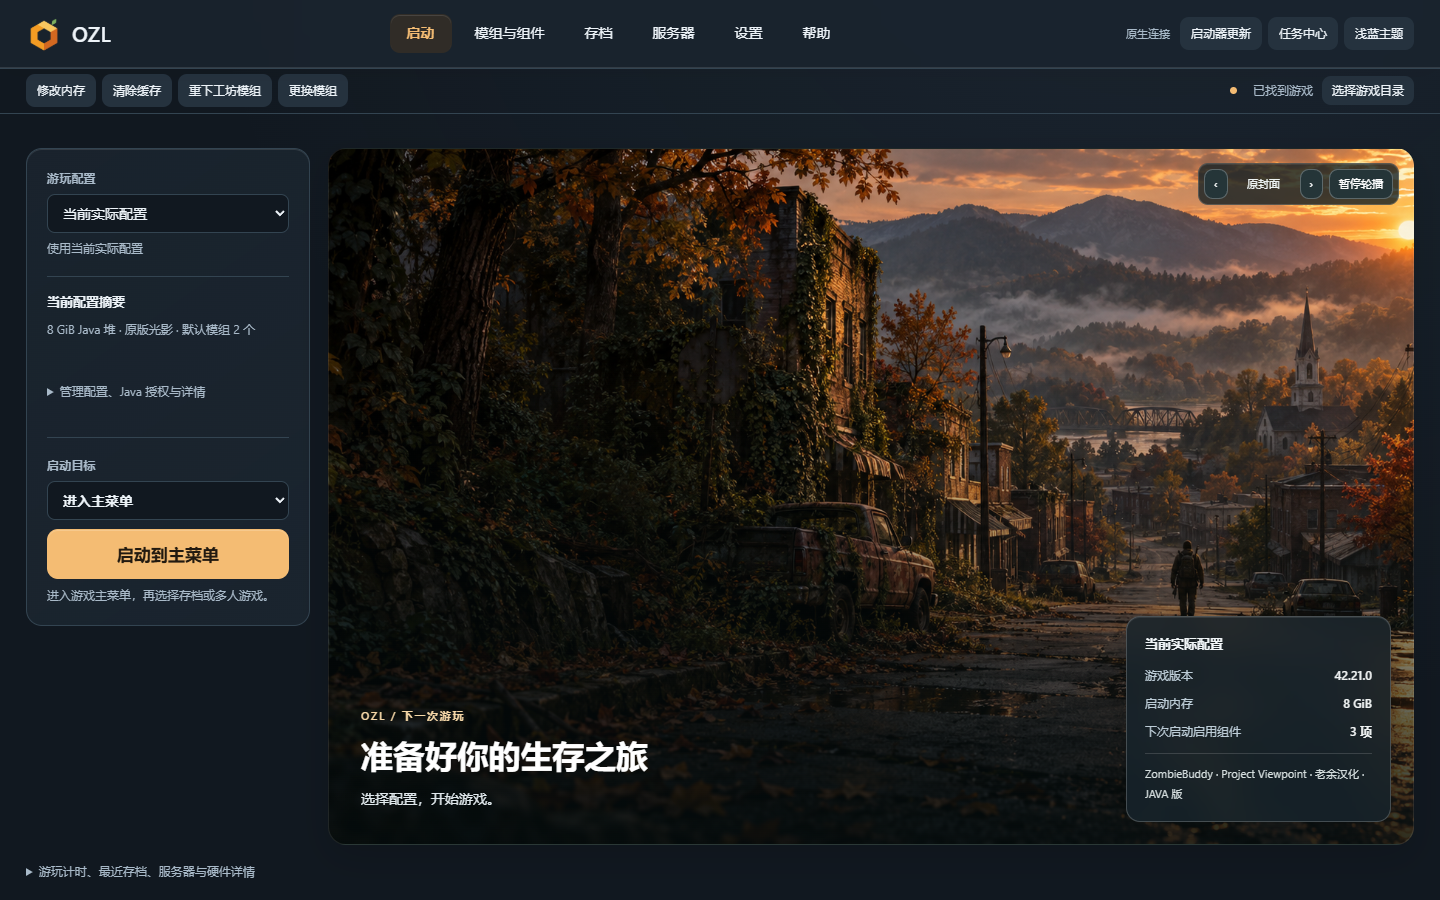
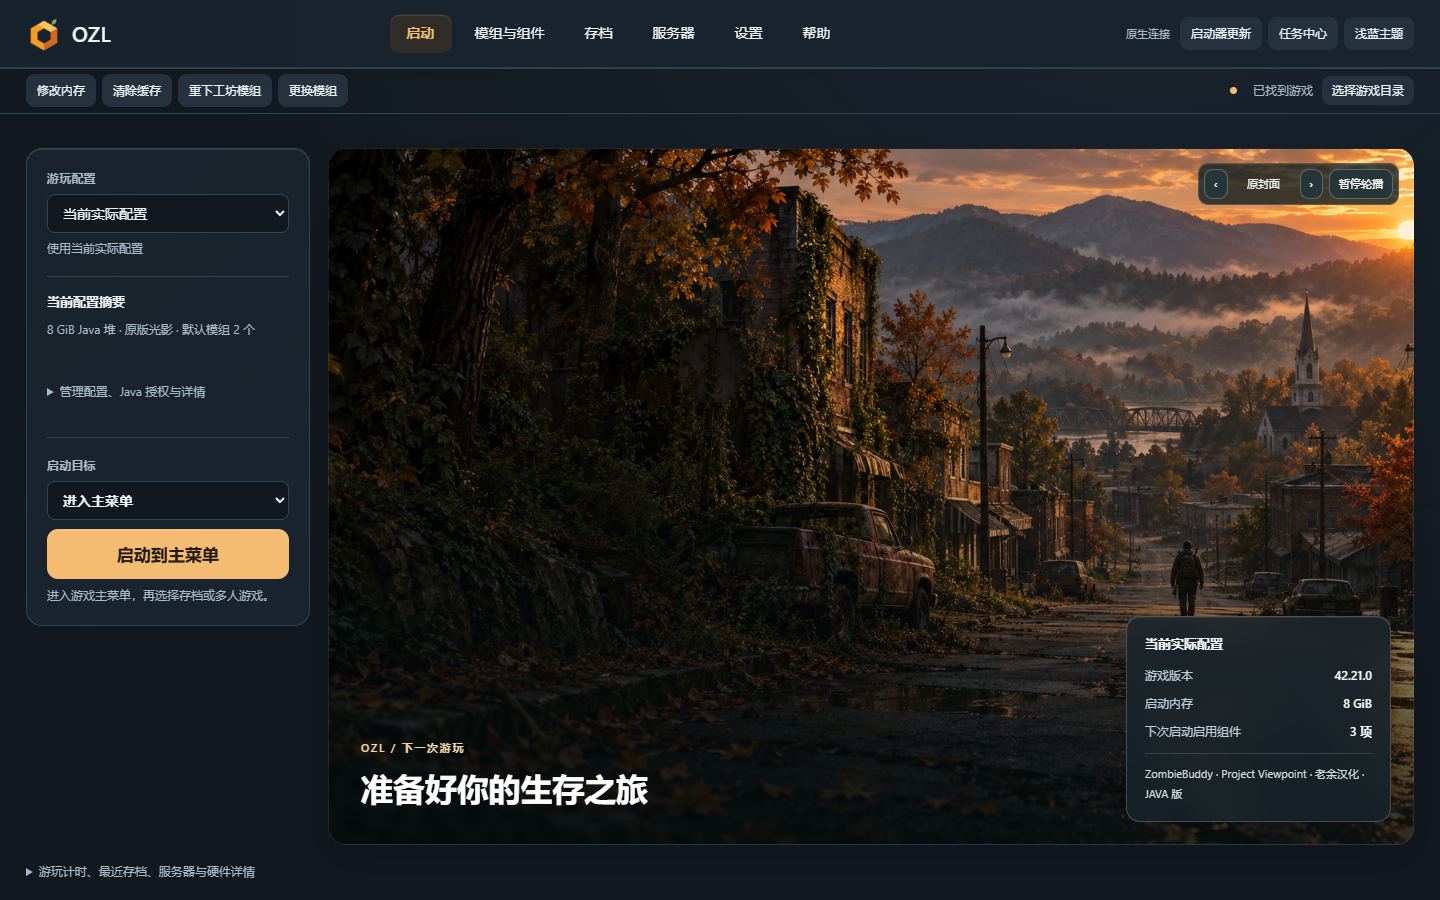
Polish launcher copy and cover fallbacks, add official QQ contact

Changed region(s): [[0.25, 0.7778, 0.4688, 0.9022]]

diff --git a/Orange3DTool/Web/app.css b/Orange3DTool/Web/app.css
@@ -122,3 +122,9 @@ button{border:1px solid transparent;border-radius:9px;padding:8px 13px;min-heigh
 @media(max-width:800px){.home-layout .play-launch{min-height:400px}#page[data-route="mods"]>.grid{grid-template-columns:1fr}}
 @media(max-width:580px){.home-layout .play-launch{min-height:0}.home-layout .home-cover{height:440px}}
 @media(prefers-reduced-motion:reduce){*,*::before,*::after{animation:none!important;transition:none!important;scroll-behavior:auto!important}}
+/* Neutral fallback stays legible in catalog rows without imitating author art. */
+.cover-missing{display:inline-flex;flex-direction:column;align-items:center;justify-content:center;gap:3px;max-width:100%;color:var(--muted);line-height:1.3}
+.cover-missing svg{width:28px;height:28px;fill:none;stroke:currentColor;stroke-width:1.4;opacity:.7}
+.cover-missing small{font-size:12px;white-space:nowrap}
+.contact-row{display:flex;align-items:center;flex-wrap:wrap;gap:10px 18px;padding:12px 0;margin-bottom:12px;border-bottom:1px solid var(--line);font-size:13px}
+.contact-row .actions{margin:0}.contact-row [role=status]{color:var(--muted);font-size:12px}

diff --git a/Orange3DTool/ModernHostPolicy.cs b/Orange3DTool/ModernHostPolicy.cs
@@ -12,6 +12,7 @@ namespace PZ3D {
    var request=new JavaScriptSerializer{MaxJsonLength=262144,RecursionLimit=24}.Deserialize<Dictionary<string,object>>(text);object id,action,payload;
    if(request==null||!request.TryGetValue("id",out id)||!(id is string)||!Regex.IsMatch((string)id,@"^[A-Za-z0-9_-]{1,96}$")||!request.TryGetValue("action",out action)||!(action is string)||(!Actions.Contains((string)action)&&!CoreAction((string)action)&&!BuddyAction((string)action)&&!PlayProfiles.Action((string)action)))throw new Exception("未知或无效的界面操作。");
    if(!request.TryGetValue("payload",out payload)||!(payload is Dictionary<string,object>))throw new Exception("操作参数必须是对象。");
+   if((string)action=="openContact")LauncherContact.Resolve((Dictionary<string,object>)payload);
    if(PlayProfiles.Action((string)action))PlayProfiles.ValidatePayload((string)action,(Dictionary<string,object>)payload);
    if(CoreAction((string)action)) {
     var p=(Dictionary<string,object>)payload;object protocol,confirmed,drafts;
@@ -26,7 +27,7 @@ namespace PZ3D {
    if((string)action=="saveDeletePreview"||(string)action=="saveDelete")ValidateSaveDeletionPayload((string)action,(Dictionary<string,object>)payload);
    return request;
   }
-  static ModernHostPolicy(){Actions.Add("gameDiagnostics");Actions.Add("saveDeletePreview");Actions.Add("saveDelete");}
+  static ModernHostPolicy(){Actions.Add("openContact");Actions.Add("gameDiagnostics");Actions.Add("saveDeletePreview");Actions.Add("saveDelete");}
   internal static void ValidateSaveDeletionPayload(string action,Dictionary<string,object> p){object id,stamp,confirmed;bool preview=action=="saveDeletePreview";if(p.Count!=(preview?1:3)||!p.TryGetValue("id",out id)||!(id is string)||!SaveDeletion.ValidId((string)id))throw new InvalidOperationException("删除存档只接受本机存档标识，不能提供路径。");if(!preview&&(!p.TryGetValue("stamp",out stamp)||!(stamp is string)||!SaveDeletion.ValidStamp((string)stamp)||!p.TryGetValue("confirmed",out confirmed)||!(confirmed is bool)||!(bool)confirmed))throw new InvalidOperationException("删除存档需要有效预览凭据和明确确认。");}
   internal static bool BuddyAction(string action){return action=="buddyPreview"||action=="buddyTakeover"||action=="buddyRecover";}
   internal static void ValidateAutoSortPayload(Dictionary<string,object> p){object confirmed;if(p.Count!=1||!p.TryGetValue("confirmed",out confirmed)||!(confirmed is bool)||!(bool)confirmed)throw new Exception("自动排序需要明确确认，且只调整当前默认清单的顺序。");}

diff --git a/Orange3DTool/LauncherContactTests.cs b/Orange3DTool/LauncherContactTests.cs
@@ -1,0 +1,25 @@
+using System;
+using System.Collections.Generic;
+namespace PZ3D {
+ static class LauncherContactTests {
+  static void Check(bool v,string name){if(!v)throw new Exception(name);Console.WriteLine("PASS: "+name);}
+  static void Reject(Action a,string name){bool rejected=false;try{a();}catch{rejected=true;}Check(rejected,name);}
+  public static int Main(){try{Run();return 0;}catch(Exception e){Console.WriteLine(e);return 1;}}
+  public static void Run(){
+   var p=new Dictionary<string,object>();
+   Check(LauncherContact.Resolve(p)=="https://qm.qq.com/q/cuLGbwUx4A","contact resolves fixed official invitation");
+   foreach(var key in new[]{"url","path","target"})Reject(()=>LauncherContact.Resolve(new Dictionary<string,object>{{key,"https://example.org"}}),"contact rejects supplied "+key);
+   const string request="{\"id\":\"contact\",\"action\":\"openContact\",\"payload\":{}}";
+   Check(ModernHostPolicy.Validate("https://orange.local/index.html",request)!=null,"trusted page accepts contact action");
+   Reject(()=>ModernHostPolicy.Validate("https://example.org/index.html",request),"untrusted page rejects contact action");
+   Reject(()=>ModernHostPolicy.Validate("https://orange.local/index.html",request.Replace("\"payload\":{}","\"payload\":{\"url\":\"x\"}")),"host rejects contact URL payload");
+   int launched=0;Reject(()=>LauncherContact.Open(p,true,s=>launched++),"TestMode blocks contact launch");Check(launched==0,"TestMode launches no external program");
+   string opened=null;LauncherContact.Open(p,false,s=>opened=s);Check(opened=="https://qm.qq.com/q/cuLGbwUx4A","explicit contact opens only resolved invitation");
+   string root=System.IO.Path.Combine(LauncherTestPaths.Root,"contact-"+Guid.NewGuid().ToString("N"));
+   using(var controller=new ModernController(System.IO.Path.Combine(root,"Game"),System.IO.Path.Combine(root,"User"),System.IO.Path.Combine(root,"Data"),true)){
+    string message="";try{controller.Execute("openContact",p);}catch(Exception e){message=e.Message;}Check(message=="测试模式禁止打开外部页面。","controller contact reaches TestMode guard without launching");
+    message="";try{controller.Execute("openContact",new Dictionary<string,object>{{"url","https://example.org"}});}catch(Exception e){message=e.Message;}Check(message=="联系入口不接受网址或路径参数。","controller independently rejects supplied target");
+   }
+  }
+ }
+}

diff --git a/Orange3DTool/ModernController.cs b/Orange3DTool/ModernController.cs
@@ -142,6 +142,7 @@ namespace PZ3D {
    case "reticleGet":return new{retired=true,message="启动器本地瞄准桥接已退役；使用作者原生控制与校准。"};
    case "reticleSave":CheckStorage();return Message(new PresentationBridge().Retire(engine));
    case "open":return Open(Text(p,"target"));
+   case "openContact":LauncherContact.Open(p,test,Links.Open);return Message("已打开官方 QQ 群邀请。");
    case "openOfficial":string item=Text(p,"item");ulong id;if(!ulong.TryParse(item,out id)||!WorkshopWorker.AllowItem(id))throw new Exception("未知作者条目。");if(test)throw new Exception("测试模式禁止打开外部页面。");Links.Open("https://steamcommunity.com/sharedfiles/filedetails/?id="+id);return Message("已打开作者工坊页面。");
    case "dlss":Confirm(p);Check();string op=Text(p,"operation");var installer=new DlssInstaller(engine.Game,data,test){Progress=(v,t)=>Report(v,t)};if(op=="disable")return Message(installer.Disable());if(op!="enable")throw new Exception("未知 DLSS 操作。");if(test)throw new Exception("测试模式禁止真实下载 DLSS。");string cache=ComponentCache.Prepare(Path.Combine(data,"DLSS-Cache"),(v,t)=>Report(-1,t),cancel.Token);Check();return Message(installer.Enable(cache));
    default:throw new Exception("未允许的操作："+action);

diff --git a/Orange3DTool/ModernControllerTests.cs b/Orange3DTool/ModernControllerTests.cs
@@ -14,6 +14,7 @@ namespace PZ3D {
   static void Reject(Action work,string name){bool denied=false;try{work();}catch{denied=true;}Assert(denied,name);}
   public static int Main(string[] args){try{if(args.Length>=3&&args[0]=="--workshop-worker"){Console.SetError(new StreamWriter(Console.OpenStandardError(),new System.Text.UTF8Encoding(false)){AutoFlush=true});Console.SetOut(new StreamWriter(Console.OpenStandardOutput(),new System.Text.UTF8Encoding(false)){AutoFlush=true});return WorkshopWorker.Run(args[1],args[2],args.Contains("--force"));}if(args.Contains("--legacy-tail")){LauncherWorkshopRebuildTests.Run();LauncherUiTests.Run();ComponentBatchTests.Run();ReticleSettingsTests.Run();Test.Run();Test.Extras();Test.Audit();FeatureTests.Run();ChinesePatchTests.Run();UiUpdateTests.Run();PortableTests.Run();WorkshopSubscriptionTests.Run();StatusTests.Run();SettingsTests.Run();ShaderTests.Run();UpdateTests.Run();DiscoveryTests.Run();ShootClientTests.Run();PresentationBridgeTests.Run();return 0;}Run();return 0;}catch(Exception ex){Console.WriteLine("FAIL: "+ex.Message);return 1;}}
   public static void Run(){
+   LauncherContactTests.Run();
    SaveRecycling();
    BuddyWorkflow();
    ScopedLaunchStamp();

diff --git a/Orange3DTool/LauncherContact.cs b/Orange3DTool/LauncherContact.cs
@@ -1,0 +1,10 @@
+using System;
+using System.Collections.Generic;
+namespace PZ3D {
+ static class LauncherContact {
+  internal const string GroupNumber="1124858561";
+  internal const string InviteUrl="https://qm.qq.com/q/cuLGbwUx4A";
+  internal static string Resolve(Dictionary<string,object> payload){if(payload==null||payload.Count!=0)throw new InvalidOperationException("联系入口不接受网址或路径参数。");return InviteUrl;}
+  internal static void Open(Dictionary<string,object> payload,bool test,Action<string> open){string target=Resolve(payload);if(test)throw new InvalidOperationException("测试模式禁止打开外部页面。");open(target);}
+ }
+}

diff --git a/.superpowers/sdd/2026-10-23-product-refresh/task-5-report.md b/.superpowers/sdd/2026-10-23-product-refresh/task-5-report.md
@@ -1,0 +1,88 @@
+# Task 5 report — plain copy, neutral covers, official QQ contact
+
+Implemented on `feature/self-hosted-updates`, starting at `9d2d16c`. Integration/delivery remains controller-owned. No website page, site JavaScript, deployment, real game/server/player configuration, Steam session, or foreground browser was changed.
+
+## Changes
+
+- Removed all ten generic procedural route subtitles and the now-unused descriptions map: components, mods (including the exact highlighted “命名、整理与复用本地清单。先预览依赖顺序，再明确保存或启用。”), workshop, saves, servers, settings, shaders, memory, maintenance, help. The heading no longer creates an empty paragraph.
+- Removed redundant filler under core components (“加载支持、全新视角…”), optional component disclosure (“只安装你选择的内容…”), both local mod catalog headings (“原作者标题、封面与依赖…” / “原作者封面与元数据…”), the task list (“实际任务事件与结果…”), home cover (“选择配置，开始游戏。”), and diagnostics (“汇总游戏与启动器日志…”). Actual state, counts, authors, descriptions, version metadata, dependencies, field help, permissions, recovery/error notices, and all actions remain.
+- Added a compact help-only official QQ row: group `1124858561`, join, copy, and local clipboard success/failure status. No home button cluster was added. Join sends `openContact` with `{}` only after a click.
+- Added `LauncherContact` with fixed `InviteUrl = https://qm.qq.com/q/cuLGbwUx4A`, strict empty payload resolver, TestMode launch guard, and a narrowly injected external-open boundary. Both trusted host validation and controller dispatch independently reject supplied targets. Native aggregate registration is through `ModernControllerTests.Run`, already part of self-test.
+- Missing covers now use a neutral code-native outlined picture icon and “暂无封面” accessible label. Original author images still use the same `<img>` branch; lazy local cover reads/cache/concurrency and thumbnail logic remain intact. Missing workshop artwork uses the same neutral shape, with distinct pending/error labels where applicable.
+- Capture-only current version is `1.2.14`; ordinary fixture defaults remain `1.2.0`. Normal captures wait for fonts and finite animations before screenshotting. Regenerated only the ten owned `website/assets/launcher-*.png` exports from the real launcher DOM.
+
+## TDD evidence
+
+Commands run from `E:/Projects/OrangeLauncher` in PowerShell, with background headless Edge only.
+
+Initial RED command: `node Orange3DTool/Web/copy-contact-ui-tests.cjs`
+
+- Heading test: `FAIL ... components`, assertion `1 !== 0` (procedural paragraph still present).
+- Contact test: `FAIL ... locator.innerText: Timeout 4000ms exceeded`, waiting for `[data-contact]` (contact not implemented).
+- The first placeholder test draft accidentally referenced the private closure function and errored; corrected it to inspect real rendered mod rows before implementation. The corrected RED run failed waiting for `.cover-missing[role="img"]` (placeholder not implemented).
+- Summary: `0/3 copy/contact groups passed`.
+
+Native RED command: `./Build-Tests.ps1 -Entry PZ3D.LauncherContactTests -Output E:/Projects/OrangeLauncher/artifacts/contact-tests.exe`
+
+- Compiler reports CS0103 for missing `LauncherContact`, then `Test compilation failed`. This is an API-addition compile RED; runtime policy checks were executed after the minimal implementation.
+
+Additional filler RED: expanded the actual rendered-route assertion before removing inner section filler, then ran `node Orange3DTool/Web/copy-contact-ui-tests.cjs`.
+
+- `FAIL route headings omit procedural filler while preserving titles and controls`; actual home text still contained “选择配置，开始游戏。”.
+- `2/3 copy/contact groups passed`.
+
+GREEN command: `node Orange3DTool/Web/copy-contact-ui-tests.cjs`
+
+```text
+PASS route headings omit procedural filler while preserving titles and controls
+PASS help contact copies exact official group and joins through an empty native payload only on click
+PASS missing covers use a compact accessible native icon and retain original image covers
+3/3 copy/contact groups passed
+```
+
+Native GREEN commands:
+
+```powershell
+./Build-Tests.ps1 -Entry PZ3D.LauncherContactTests -Output E:/Projects/OrangeLauncher/artifacts/contact-tests.exe
+./artifacts/contact-tests.exe
+```
+
+Build exit 0; executable exit 0. Exact final stdout:
+
+```text
+PASS: contact resolves fixed official invitation
+PASS: contact rejects supplied url
+PASS: contact rejects supplied path
+PASS: contact rejects supplied target
+PASS: trusted page accepts contact action
+PASS: untrusted page rejects contact action
+PASS: host rejects contact URL payload
+PASS: TestMode blocks contact launch
+PASS: TestMode launches no external program
+PASS: explicit contact opens only resolved invitation
+PASS: controller contact reaches TestMode guard without launching
+PASS: controller independently rejects supplied target
+```
+
+The clipboard API and native messaging are injected only at the real external boundaries. Assertions exercise actual rendered DOM, click handlers, payloads and copied text. Layout/image checks run at 768/1440 in both themes, including original `<img>` retention.
+
+## Regression verification
+
+- `./Build-Tests.ps1 -Entry PZ3D.ModernControllerTests -Output E:/Projects/OrangeLauncher/artifacts/contact-controller-tests.exe` then `./artifacts/contact-controller-tests.exe`: both exit 0. Includes contact policy plus existing controller/deletion/Buddy/network/cancellation/configuration regression coverage. The final two additional direct controller contact assertions were subsequently rebuilt and passed in the focused executable above.
+- `node Orange3DTool/Web/full-ui-tests.cjs`: exit 0, `34/34 full UI test groups passed`. Run twice, with the final run after broader filler cleanup. Includes 31 prior groups and all three new copy/contact groups, rich profile metadata/sort/stale drafts, Steam credential boundaries, task outcomes, theme/route access and startup update behavior.
+- `git diff --check`: exit 0, no output.
+- `node Orange3DTool/Web/product-refresh-capture.cjs`: exit 0, `PASS 66 route/theme/width screenshots; 10 sanitized new launcher images exported; 6 contact sheets.` All route captures assert no horizontal main overflow. This is synthetic native data, not a live game or server test.
+
+## Screenshot artifacts and personal QA
+
+Actual route screenshots: `E:/Projects/OrangeLauncher/artifacts/product-refresh-ui/{dark,light}-{home,components,mods,workshop,saves,servers,settings,shaders,memory,maintenance,help}-{1440,1280,768}.png`.
+
+Contact sheets: same folder, `contact-{dark,light}-{1440,1280,768}.png`. Additional disclosure/startup captures: `{dark,light}-optional-expanded-1280.png`, `{dark,light}-startup-missing-768.png`.
+
+Personally inspected the two 1440 contact sheets covering all eleven routes and these full-size frames: `dark-help-768.png`, `light-help-768.png`, `dark-mods-768.png`, `light-mods-1440.png`. The help row is compact, readable, and contained in both themes at 768; controls are clearly separated. Mod placeholders fit the small catalog rows without oversized graphics; author/title/version/dependency/status remain legible and original available covers remain visible. Header spacing closes correctly after subtitle removal. Existing home hero image/layout remains intact.
+
+Owned site exports regenerated: `website/assets/launcher-{home,components,mods,servers,maintenance}-{dark,light}.png`. No website source pages were edited.
+
+## Limits / handoff
+
+No actual external QQ/browser opening was performed: trusted target resolution, injected launch argument, TestMode guard and actual UI request are verified without opening external applications. Clipboard copy used an injected API boundary in headless tests; success and exact group content are checked. The native live clipboard remains subject to the host's normal clipboard permission support and displays a concrete manual-copy fallback on failure. Controller owns final whole-branch review, full native/core/deploy/website suites, publication decisions, changelog and Task 6 planning.
